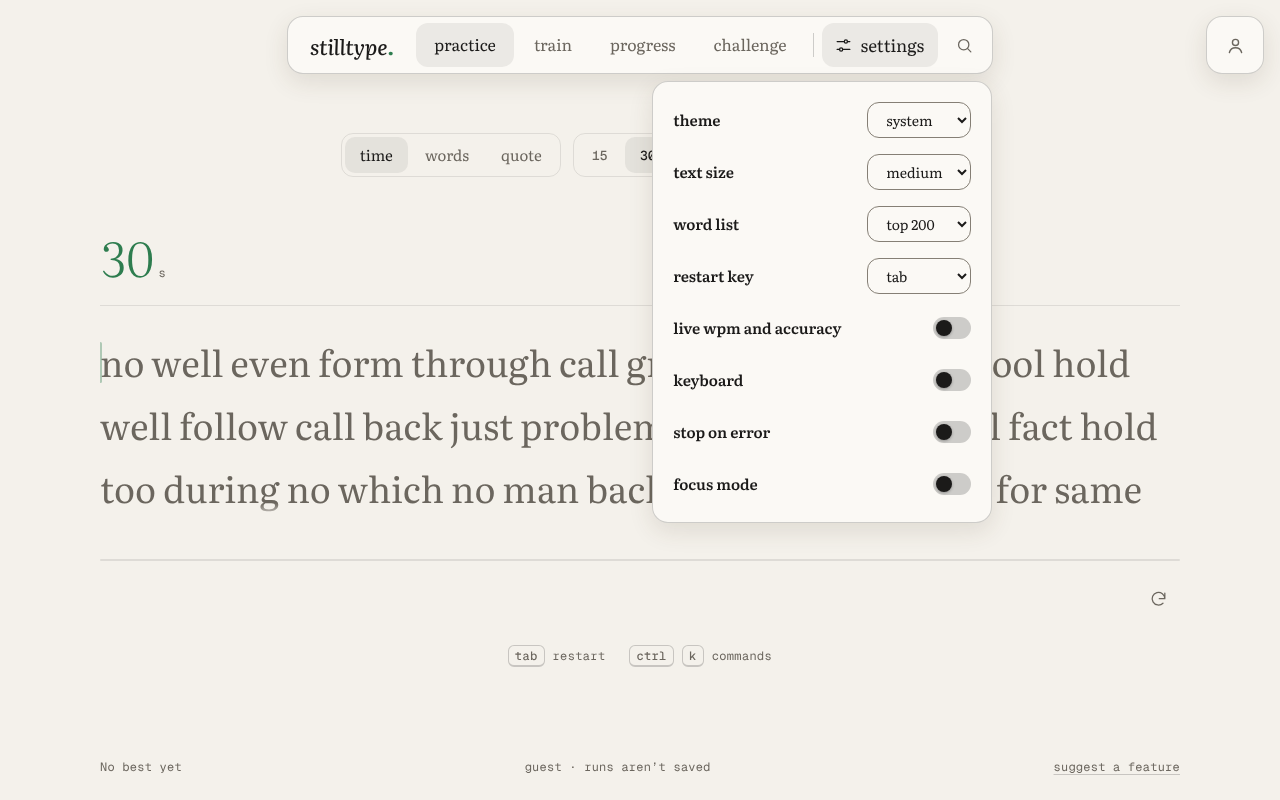
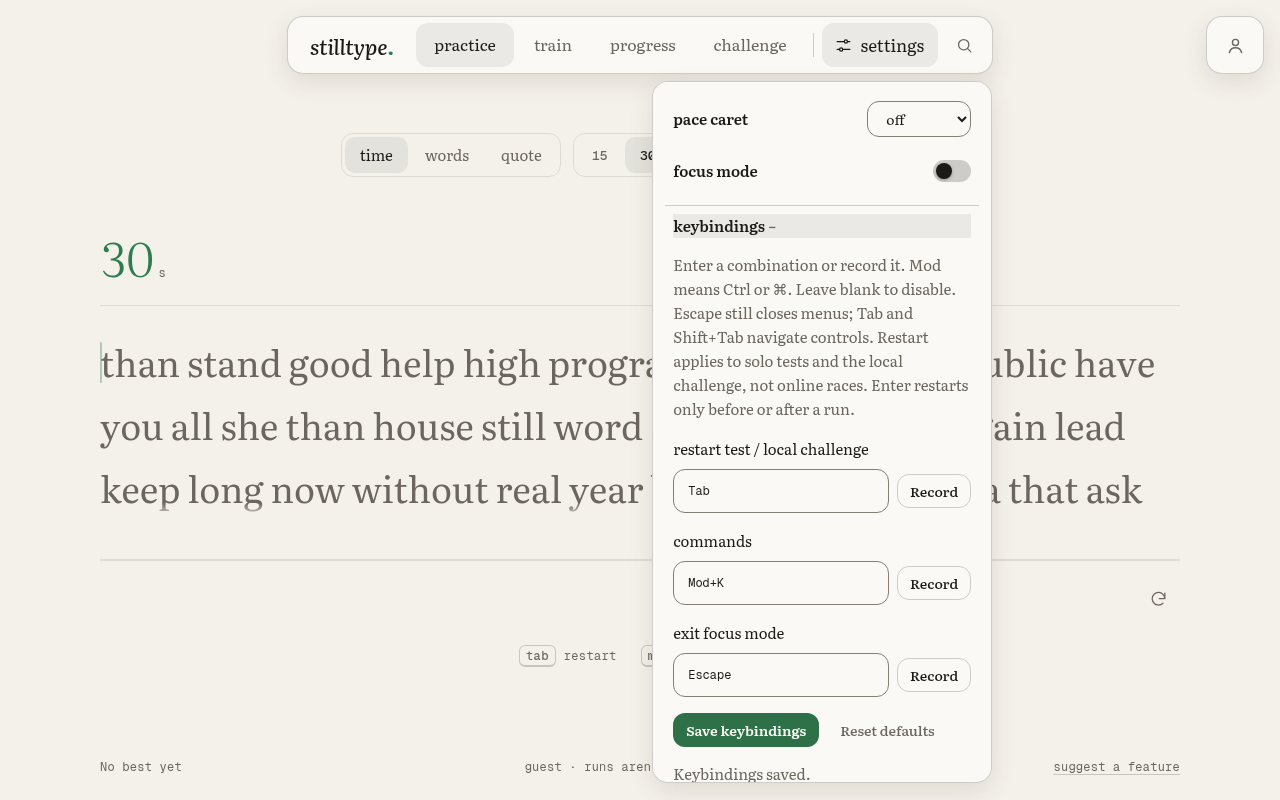
Verify held keys and online isolation with accessible keybinding controls

diff --git a/e2e/keybindings.spec.js b/e2e/keybindings.spec.js
@@ -197,6 +197,9 @@ for (const width of [1280, 320]) {
     await editBindings(page, {});
     await page.locator('#keybinding-commands').scrollIntoViewIfNeeded();
     await expect(page.locator('#keybinding-commands')).toBeVisible();
+    for (const height of await page.locator('.keybindings-category .btn').evaluateAll((buttons) => buttons.map((button) => button.getBoundingClientRect().height))) {
+      expect(height).toBeGreaterThanOrEqual(44);
+    }
     const bounds = await page.locator('.preferences-popover').boundingBox();
     expect(bounds.x).toBeGreaterThanOrEqual(0);
     expect(bounds.x + bounds.width).toBeLessThanOrEqual(width);
@@ -216,3 +219,26 @@ for (const keybindings of [{ restart: 'Ctrl+K' }, { restart: 'a', commands: '__p
     await expect(page.locator('#palette')).toBeVisible();
   });
 }
+
+test('held printable input is ignored and a held Escape exits focus without restarting the run', async ({ page }) => {
+  await openApp(page);
+  await chooseWords(page);
+  const text = await passageText(page);
+  await page.locator('#typing-input').focus();
+  await page.keyboard.down(text[0]);
+  await page.keyboard.down(text[0]);
+  await page.keyboard.up(text[0]);
+  await expect(page.locator('#typing-input')).toHaveValue(text[0]);
+  await expect(page.locator('#input-help')).toHaveText('Key repeat ignored.');
+  await page.mouse.move(5, 5); await page.mouse.move(40, 40);
+  await openSettings(page);
+  await page.locator('#focus-toggle').check();
+  await page.locator('#typing-input').click();
+  await page.keyboard.down('Escape');
+  await expect(page.locator('body')).toHaveAttribute('data-focus-mode', 'false');
+  await page.keyboard.down('Escape');
+  await page.keyboard.up('Escape');
+  await expect(page.locator('#typing-input')).toHaveValue(text[0]);
+  await page.keyboard.press('Escape');
+  await expect(page.locator('#typing-input')).toHaveValue('');
+});

diff --git a/e2e/multiplayer.spec.js b/e2e/multiplayer.spec.js
@@ -1,4 +1,4 @@
-import { test, expect, openApp, openView, signInWithEmail, typeInto } from './fixtures.js';
+import { test, expect, openApp, openView, signInWithEmail, typeInto, openSettings } from './fixtures.js';
 
 test.setTimeout(60000);
 
@@ -28,6 +28,11 @@ async function guestPage(browser, supabase, link) {
 
 test('an account hosts a guest across separate contexts, shares progress and finishes', async ({ page, browser, supabase }) => {
   const room = await hostRace(page, supabase);
+  await openSettings(page);
+  await page.locator('.keybindings-category > summary').click();
+  await page.locator('#keybinding-restart').fill('F2');
+  await page.getByRole('button', { name: 'Save keybindings', exact: true }).click();
+  await page.keyboard.press('Escape');
   const link = await page.locator('#online-guest-link').inputValue();
   expect(link).toContain(room.id);
   const { context, guest, errors } = await guestPage(browser, supabase, link);
@@ -46,6 +51,11 @@ test('an account hosts a guest across separate contexts, shares progress and fin
     await typeInto(page, passage.slice(0, 20), '#online-input', { delay: 15 });
     await expect.poll(() => room.players[0].progress).toBeGreaterThan(0);
     await expect.poll(() => room.players[0].typed).toBe(passage.slice(0, 20));
+    // Solo/local restart bindings must never reset a live online room or move its focus.
+    await page.keyboard.press('F2');
+    await page.keyboard.press('Escape');
+    await expect(page.locator('#online-input')).toHaveValue(passage.slice(0, 20));
+    await expect(page.locator('#online-input')).toBeFocused();
     // Reload must restore the acknowledged prefix and advance the server sequence.
     await page.reload();
     await expect(page.locator('#online-input')).toBeEnabled();

diff --git a/src/styles.css b/src/styles.css
@@ -389,7 +389,7 @@ kbd {
 .preference-row .pace-wpm { width: 104px; height: 36px; font-size: 14px; }
 
 .keybindings-category { border-top: 1px solid var(--hairline-strong); margin-top: var(--space-2); padding: var(--space-2); }
-.keybindings-category > summary { cursor: pointer; font-size: var(--text-small); font-weight: 600; }
+.keybindings-category > summary { min-height: var(--control); display: flex; align-items: center; gap: var(--space-2); cursor: pointer; font-size: var(--text-small); font-weight: 600; }
 .keybindings-category > summary::after { content: ' +'; color: var(--muted); }
 .keybindings-category[open] > summary::after { content: ' −'; }
 .keybindings-category p { font-size: var(--text-small); color: var(--muted); }
@@ -398,6 +398,7 @@ kbd {
 .keybinding-controls, .keybinding-actions { display: flex; align-items: center; gap: var(--space-2); }
 .keybinding-controls .input { min-width: 0; flex: 1; font: var(--text-fine)/1.5 var(--font-mono); }
 .keybinding-controls .btn { flex: none; }
+.keybindings-category .btn { height: var(--control); }
 .keybindings-category .keybinding-error { color: var(--danger); margin-top: var(--space-2); }
 .keybinding-error:empty { display: none; }
 .keybinding-controls [aria-invalid="true"] { border-color: var(--danger); }
